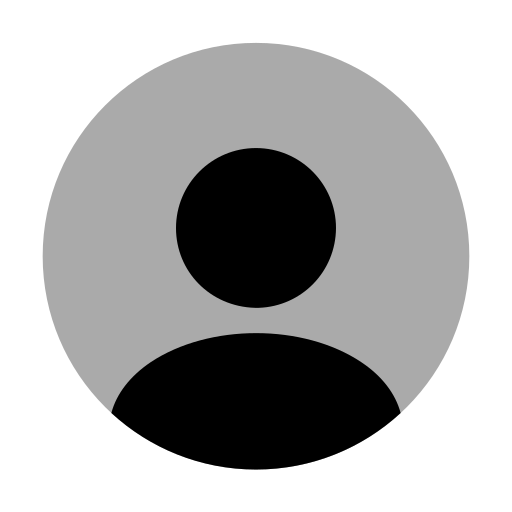
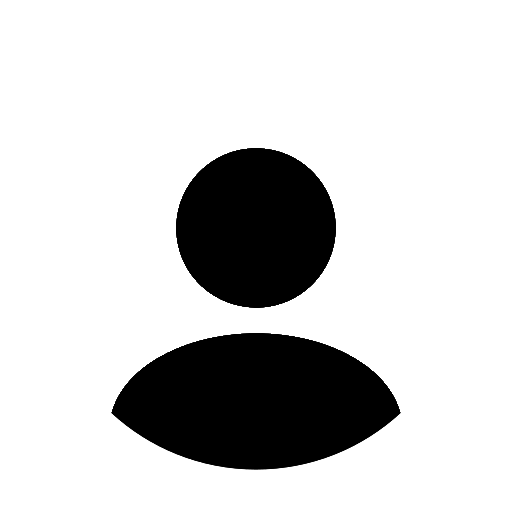
Fixes frontend login + Frontend de DELETE y UPDATE post (falta verificar backend + R2)

diff --git a/frontend/src/components/blog/PostContent.jsx b/frontend/src/components/blog/PostContent.jsx
@@ -1,15 +1,21 @@
-import { useParams } from "react-router-dom";
+import { useParams, useNavigate } from "react-router-dom";
 import { useEffect, useState } from "react";
 import LoadingMessage from "../ui/Loading";
 import ErrorMessage from "../ui/Error";
 import PageTitle from "../ui/PageTitle";
+import useAuth from "../../hooks/useAuth";
 
 function PostContent() {
   const { slug } = useParams();
+  const navigate = useNavigate();
+  const { isAuthenticated } = useAuth();
 
   const [post, setPost] = useState(null);
   const [loading, setLoading] = useState(true);
   const [error, setError] = useState(null);
+
+  const [showEditModal, setShowEditModal] = useState(false);
+  const [showDeleteModal, setShowDeleteModal] = useState(false);
 
   const [selectedImageIndex, setSelectedImageIndex] = useState(null);
 
@@ -119,6 +125,30 @@ function PostContent() {
     };
   }, [selectedImageIndex, post]);
 
+  async function handleDelete() {
+    try {
+      const response = await fetch(
+        `${import.meta.env.VITE_API_URL}/api/posts/${post.id}`,
+        {
+          method: "DELETE",
+          credentials: "include",
+        },
+      );
+
+      if (!response.ok) {
+        throw new Error("No se pudo borrar el post");
+      }
+
+      alert("Post borrado correctamente.");
+
+      navigate("/");
+    } catch (error) {
+      console.error("Error al borrar el post:", error);
+
+      alert("No se pudo borrar el post.");
+    }
+  }
+
   if (loading) {
     return <LoadingMessage />;
   }
@@ -146,12 +176,12 @@ function PostContent() {
         }
 
         return (
-          <div
-            className="postImage"
-            key={index}
-            onClick={() => openGallery(imageIndex)}
-          >
-            <img src={image.url} alt={image.alt || image.name} />
+          <div className="postImage" key={index}>
+            <img
+              src={image.url}
+              alt={image.alt || image.name}
+              onClick={() => openGallery(imageIndex)}
+            />
           </div>
         );
       }
@@ -192,6 +222,13 @@ function PostContent() {
           {renderContent(post.content, post.images)}
         </div>
       </article>
+
+      {isAuthenticated && (
+        <div className="postActions">
+          <button onClick={() => setShowEditModal(true)}>Editar</button>
+          <button onClick={() => setShowDeleteModal(true)}>Borrar</button>
+        </div>
+      )}
 
       {selectedImage && (
         <div className="imageGalleryOverlay" onClick={closeGallery}>
@@ -241,6 +278,22 @@ function PostContent() {
             <button className="imageGalleryNext" onClick={showNextImage}>
               ›
             </button>
+          </div>
+        </div>
+      )}
+
+      {showDeleteModal && (
+        <div className="postModalOverlay">
+          <div className="postModal">
+            <h2>¿Estás seguro?</h2>
+
+            <p>¿Querés borrar el post "{post.title}"?</p>
+
+            <div className="postModalActions">
+              <button onClick={() => setShowDeleteModal(false)}>No</button>
+
+              <button onClick={handleDelete}>Sí</button>
+            </div>
           </div>
         </div>
       )}

diff --git a/frontend/src/style.css b/frontend/src/style.css
@@ -140,7 +140,8 @@ header button:hover {
   text-decoration: underline;
 }
 
-.layoutMain {
+.layoutMain,
+.loginMain {
   display: flex;
   justify-content: center;
   min-height: 0;
@@ -237,7 +238,6 @@ header button:hover {
   text-align: center;
   margin-top: 1%;
   margin-bottom: 1%;
-  cursor: pointer;
 }
 
 .postImage img {
@@ -407,16 +407,13 @@ header button:hover {
   font-size: 16px;
 }
 
-/* Campos de texto */
 .formRetro input[type="text"],
 .formRetro input[type="password"],
 .formRetro input[type="datetime-local"] {
   height: 30px;
   padding: 3px 6px;
-
   background-color: white;
   border: 2px solid black;
-
   font-family: "Chicago";
 }
 
@@ -424,19 +421,14 @@ header button:hover {
 .formRetro button,
 .formRetro .formCancel {
   height: 30px;
-
   padding: 0 10px;
-
-  background-color: #9f9f9f;
+  background-color: white;
   border: 2px solid black;
-
   color: black;
   text-decoration: none;
-
   display: inline-flex;
   align-items: center;
   justify-content: center;
-
   cursor: pointer;
 }
 
@@ -623,6 +615,72 @@ header button:hover {
   border: 2px solid black;
 
   cursor: pointer;
+}
+
+.postActions button {
+  cursor: pointer;
+}
+
+.postModalOverlay {
+  position: fixed;
+  inset: 0;
+  display: flex;
+  justify-content: center;
+  align-items: center;
+  background: rgba(0, 0, 0, 0.75);
+  z-index: 1000;
+}
+
+.postModal {
+  position: relative;
+  width: 90%;
+  max-width: 500px;
+  padding: 25px;
+  background: white;
+  text-align: center;
+}
+
+.postModal h2 {
+  margin-top: 0;
+}
+
+.postActions {
+  display: flex;
+  justify-content: center;
+  align-items: center;
+  gap: 12px;
+  margin-top: 2%;
+}
+
+.postModalActions {
+  display: flex;
+  justify-content: center;
+  align-items: center;
+  gap: 12px;
+  margin-top: 2%;
+}
+
+.postActions button,
+.postModalActions button {
+  min-width: 90px;
+  height: 32px;
+  padding: 0 14px;
+  font-family: "Chicago";
+  font-size: 16px;
+  color: black;
+  background-color: #D8D7D5;
+  border: 2px solid black;
+  cursor: pointer;
+}
+
+.postActions button:hover,
+.postModalActions button:hover {
+  background-color: #9f9f9f;
+}
+
+.postActions button:active,
+.postModalActions button:active {
+  transform: translate(2px, 2px);
 }
 
 footer {

diff --git a/frontend/src/pages/Upload.jsx b/frontend/src/pages/Upload.jsx
@@ -21,8 +21,6 @@ function Upload() {
       try {
         const data = await getAllTags();
 
-        console.log("TAGS RECIBIDOS:", data);
-
         setTags(data);
       } catch (error) {
         console.error("Error al cargar los tags:", error);
